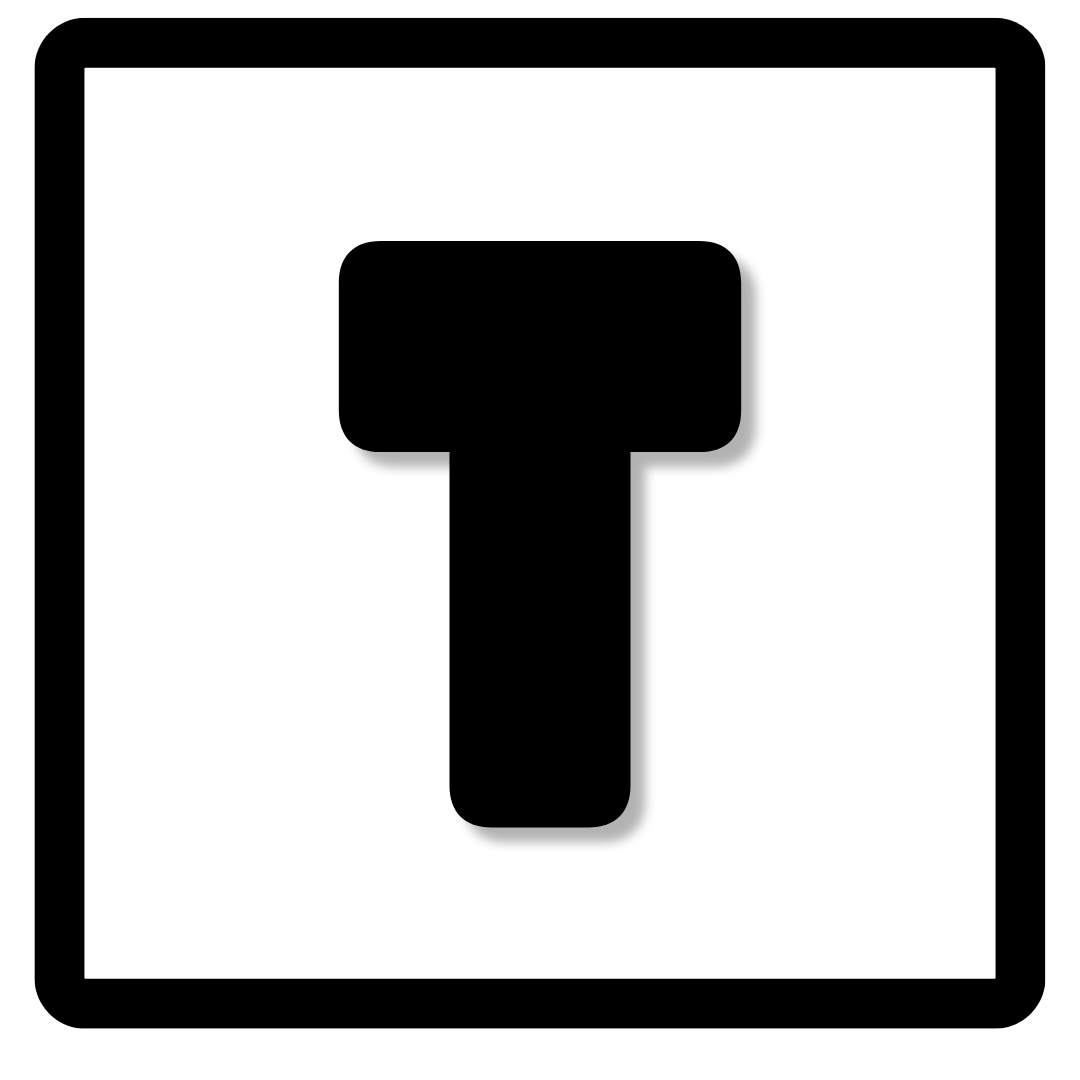
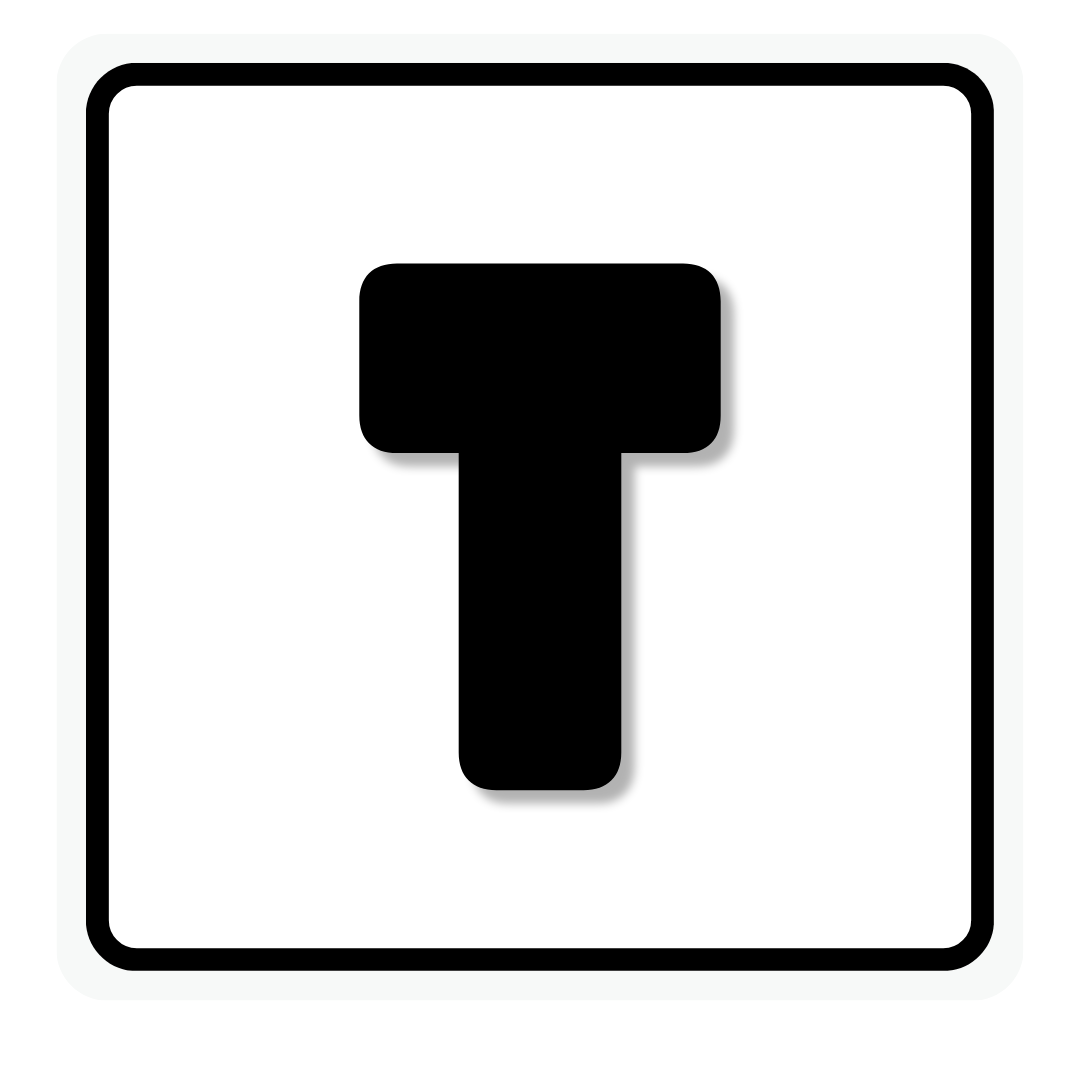
fixes

Changed region(s): [[0.0306, 0.0, 0.9778, 0.9778], [0.3972, 0.3972, 0.6111, 0.7944], [0.3056, 0.2139, 0.7028, 0.4278]]

diff --git a/tiles/rich-text/index.js b/tiles/rich-text/index.js
@@ -391,7 +391,13 @@
       });
     };
     const richToggleCommands=new Set(['bold','italic','underline','strikeThrough','insertUnorderedList','insertOrderedList']);
+    const runEditorHistory=direction=>{
+      restoreSelection();
+      try{document.execCommand(direction,false,null)}catch{}
+      rememberSelection();markChanged();queueSync();
+    };
     const runCommand=(command,value=null)=>{
+      if(command==='undo'||command==='redo'){runEditorHistory(command);return}
       restoreSelection();
       const isToggle=richToggleCommands.has(command);
       const expected=isToggle?!commandIsActive(command):null;
@@ -427,6 +433,11 @@
 
     const colorPicker=document.createElement('div');colorPicker.className='richtext-color-picker';colorPicker.hidden=true;colorPicker.setAttribute('role','dialog');colorPicker.setAttribute('aria-label','Rich Text color picker');colorPicker.dataset.preserveTextEdit='true';document.body.appendChild(colorPicker);
     let colorPickerMode='',colorPickerAnchor=null;
+    const syncColorPickerHost=()=>{
+      const host=document.fullscreenElement===m?m:document.body;
+      if(colorPicker.parentElement!==host)host.appendChild(colorPicker);
+      if(!colorPicker.hidden)requestAnimationFrame(positionColorPicker);
+    };
     const closeColorPicker=()=>{
       colorPicker.hidden=true;colorPickerMode='';colorPickerAnchor?.setAttribute('aria-expanded','false');colorPickerAnchor=null;m.classList.remove('is-richtext-color-open');if(!activeRichSelect&&!m.classList.contains('is-richtext-export-open'))m.classList.remove('is-richtext-popover-open');cancelAnimationFrame(colorPickerFrame);colorPickerFrame=0;
     };
@@ -448,6 +459,14 @@
         }
       }
       closeColorPicker();
+    };
+    const bindPickerChoice=(button,value)=>{
+      button.addEventListener('pointerdown',event=>{
+        rememberSelection();
+        event.preventDefault();
+        event.stopPropagation();
+        applyPickerColor(value);
+      });
     };
     const buildColorPicker=mode=>{
       colorPicker.replaceChildren();colorPicker.dataset.mode=mode;
@@ -540,17 +559,17 @@
         const grid=document.createElement('div');grid.className='richtext-color-grid richtext-color-grid--text';
         TEXT_COLOR_CHOICES.forEach(value=>{
           const button=document.createElement('button');button.type='button';button.className='richtext-color-choice';button.style.setProperty('--choice-color',value);button.setAttribute('aria-label',value);button.title=value;
-          const dot=document.createElement('span');dot.setAttribute('aria-hidden','true');button.appendChild(dot);button.addEventListener('click',()=>applyPickerColor(value));grid.appendChild(button);
+          const dot=document.createElement('span');dot.setAttribute('aria-hidden','true');button.appendChild(dot);bindPickerChoice(button,value);grid.appendChild(button);
         });
         colorPicker.appendChild(grid);
         return;
       }
 
       const grid=document.createElement('div');grid.className='richtext-color-grid richtext-color-grid--highlight';
-      const none=document.createElement('button');none.type='button';none.className='richtext-color-choice richtext-color-choice--clear';none.setAttribute('aria-label','No highlight');none.title='No highlight';none.innerHTML='<span aria-hidden="true"></span>';none.addEventListener('click',()=>applyPickerColor('transparent'));grid.appendChild(none);
+      const none=document.createElement('button');none.type='button';none.className='richtext-color-choice richtext-color-choice--clear';none.setAttribute('aria-label','No highlight');none.title='No highlight';none.innerHTML='<span aria-hidden="true"></span>';bindPickerChoice(none,'transparent');grid.appendChild(none);
       HIGHLIGHT_COLOR_CHOICES.forEach(value=>{
         const button=document.createElement('button');button.type='button';button.className='richtext-color-choice';button.style.setProperty('--choice-color',value);button.setAttribute('aria-label',value);button.title=value;
-        const dot=document.createElement('span');dot.setAttribute('aria-hidden','true');button.appendChild(dot);button.addEventListener('click',()=>applyPickerColor(value));grid.appendChild(button);
+        const dot=document.createElement('span');dot.setAttribute('aria-hidden','true');button.appendChild(dot);bindPickerChoice(button,value);grid.appendChild(button);
       });
       colorPicker.appendChild(grid);
       const custom=document.createElement('form');custom.className='richtext-color-custom';
@@ -568,7 +587,7 @@
       });colorPicker.appendChild(custom);
     };
     const openColorPicker=(mode,anchorButton)=>{
-      rememberSelection();closeRichSelect();if(!exportMenu?.hidden)closeExportMenu();
+      rememberSelection();closeRichSelect();if(!exportMenu?.hidden)closeExportMenu();syncColorPickerHost();
       if(!colorPicker.hidden&&colorPickerMode===mode){closeColorPicker();return}
       closeColorPicker();colorPickerMode=mode;colorPickerAnchor=anchorButton;buildColorPicker(mode);colorPicker.hidden=false;anchorButton.setAttribute('aria-expanded','true');m.classList.add('is-richtext-popover-open','is-richtext-color-open');positionColorPicker();
     };
@@ -580,6 +599,7 @@
       event.stopPropagation();
     });
     document.addEventListener('pointerdown',outsideColorPicker,true);colorPicker.addEventListener('keydown',event=>{if(event.key==='Escape'){event.stopPropagation();const anchor=colorPickerAnchor;closeColorPicker();anchor?.focus({preventScroll:true})}});
+    document.addEventListener('fullscreenchange',syncColorPickerHost);
     const selectionElement=()=>{
       const selection=getSelection();
       if(!selection?.rangeCount||!selection.anchorNode||!editor.contains(selection.anchorNode))return null;
@@ -820,6 +840,18 @@
     exportMenu.addEventListener('pointerdown',event=>{rememberSelection();event.preventDefault();event.stopPropagation()});
     exportMenu.addEventListener('keydown',event=>{if(event.key==='Escape'){event.stopPropagation();closeExportMenu();exportButton.focus({preventScroll:true})}});
 
+    const richTextHistoryHotkey=event=>{
+      if(!editor.classList.contains('module-text-edit-active'))return;
+      if(!(event.ctrlKey||event.metaKey)||event.altKey)return;
+      const key=String(event.key||'').toLowerCase();
+      const redo=key==='y'||(key==='z'&&event.shiftKey);
+      if(key!=='z'&&key!=='y')return;
+      event.preventDefault();
+      event.stopImmediatePropagation();
+      runEditorHistory(redo?'redo':'undo');
+    };
+    document.addEventListener('keydown',richTextHistoryHotkey,true);
+
     toolbar.addEventListener('pointerdown',event=>{
       rememberSelection();
       event.stopPropagation();
@@ -874,7 +906,7 @@
     const priorCleanup=m._cleanup;
     m._cleanup=()=>{
       cancelAnimationFrame(selectionFrame);cancelAnimationFrame(changeFrame);cancelAnimationFrame(exportFrame);cancelAnimationFrame(colorPickerFrame);cancelAnimationFrame(imageOverlayFrame);clearTimeout(toastTimer);
-      document.removeEventListener('selectionchange',queueSync);document.removeEventListener('pointerdown',outsideExport,true);document.removeEventListener('pointerdown',outsideColorPicker,true);document.removeEventListener('pointerdown',outsideRichSelect,true);window.removeEventListener('resize',closeRichSelect);
+      document.removeEventListener('selectionchange',queueSync);document.removeEventListener('pointerdown',outsideExport,true);document.removeEventListener('pointerdown',outsideColorPicker,true);document.removeEventListener('pointerdown',outsideRichSelect,true);document.removeEventListener('keydown',richTextHistoryHotkey,true);document.removeEventListener('fullscreenchange',syncColorPickerHost);window.removeEventListener('resize',closeRichSelect);
       richSelectControls.forEach(control=>control.menu.remove());exportMenu.remove();colorPicker.remove();imageOverlay.remove();priorCleanup?.();
     };
 

diff --git a/app.js b/app.js
@@ -3534,9 +3534,7 @@ const TILE_PIN_OFF_ICON='<svg class="module-pin-icon module-pin-icon--off" viewB
 const TILE_PIN_ON_ICON='<svg class="module-pin-icon module-pin-icon--on" viewBox="0 0 24 24" aria-hidden="true"><path d="M8 4h8l-1 5 3 3v2H6v-2l3-3-1-5Z" fill="currentColor"/><path d="M12 14v6"/></svg>';
 
 function tileOptionImportantElements(m){
-  const selector='button,input,select,textarea,[contenteditable],[role="button"],[role="slider"],[role="textbox"],iframe,audio,video,canvas,a';
-  return[...m.querySelectorAll(selector)].filter(el=>{
-    if(el.matches('.module-delete,.module-fullscreen,.module-pin,.resize-handle,.module-drag-handle')||el.closest('.module-delete,.module-fullscreen,.module-pin'))return false;
+  return[...m.querySelectorAll(':scope>[data-yield-to-tile-options="true"]')].filter(el=>{
     const style=getComputedStyle(el);
     if(style.display==='none'||style.visibility==='hidden'||Number(style.opacity)===0)return false;
     const rect=el.getBoundingClientRect();
@@ -4116,7 +4114,7 @@ const timerSyncSoundEnds=new Map();
 function timerSyncType(m){return m.classList.contains('interactive-module')?'interactive':'visual'}
 function timerSyncPeers(m){return [...workspace.querySelectorAll(timerSyncType(m)==='interactive'?'.interactive-module':'.timer-module')].filter(tile=>typeof tile._boardTimerGetState==='function')}
 function setupTimerSync(m){
-  const toggle=document.createElement('button');toggle.type='button';toggle.className='timer-sync-toggle';toggle.setAttribute('role','switch');
+  const toggle=document.createElement('button');toggle.type='button';toggle.className='timer-sync-toggle';toggle.dataset.yieldToTileOptions='true';toggle.setAttribute('role','switch');
   toggle.innerHTML='<svg viewBox="0 0 24 24" fill="none" stroke="currentColor" stroke-width="1.8" stroke-linecap="round" stroke-linejoin="round" aria-hidden="true"><path d="M20 7h-9a4 4 0 0 0-4 4v1M17 4l3 3-3 3M4 17h9a4 4 0 0 0 4-4v-1M7 20l-3-3 3-3"/></svg>';
   toggle.classList.add('timer-sync-toggle--labeled');
   toggle.innerHTML='<span>Sync Timers</span><span class="timer-sync-switch" aria-hidden="true"><i></i></span>';

diff --git a/index.html b/index.html
@@ -3930,8 +3930,8 @@
 <script src="tiles/shared/instrument.js?v=20260912-music-timer-polish-1"></script>
 <script src="tiles/piano/index.js?v=20260912-tile-refinements-2"></script>
 <script src="tiles/music-score/index.js?v=20260912-default-labels-1"></script>
-<script src="tiles/rich-text/index.js?v=20260918-toggle-context-1"></script>
-<script src="app.js?v=20260918-richtext-toggle-context-icons-1"></script>
+<script src="tiles/rich-text/index.js?v=20260918-color-fullscreen-undo-1"></script>
+<script src="app.js?v=20260918-richtext-color-fullscreen-undo-corner-1"></script>
   <script src="tiles/lesson-planner.js?v=20260912-direct-delete-1"></script>
   <script type="module" src="firebase-auth.js?v=20260913-layout-history-membership-1"></script>
 
